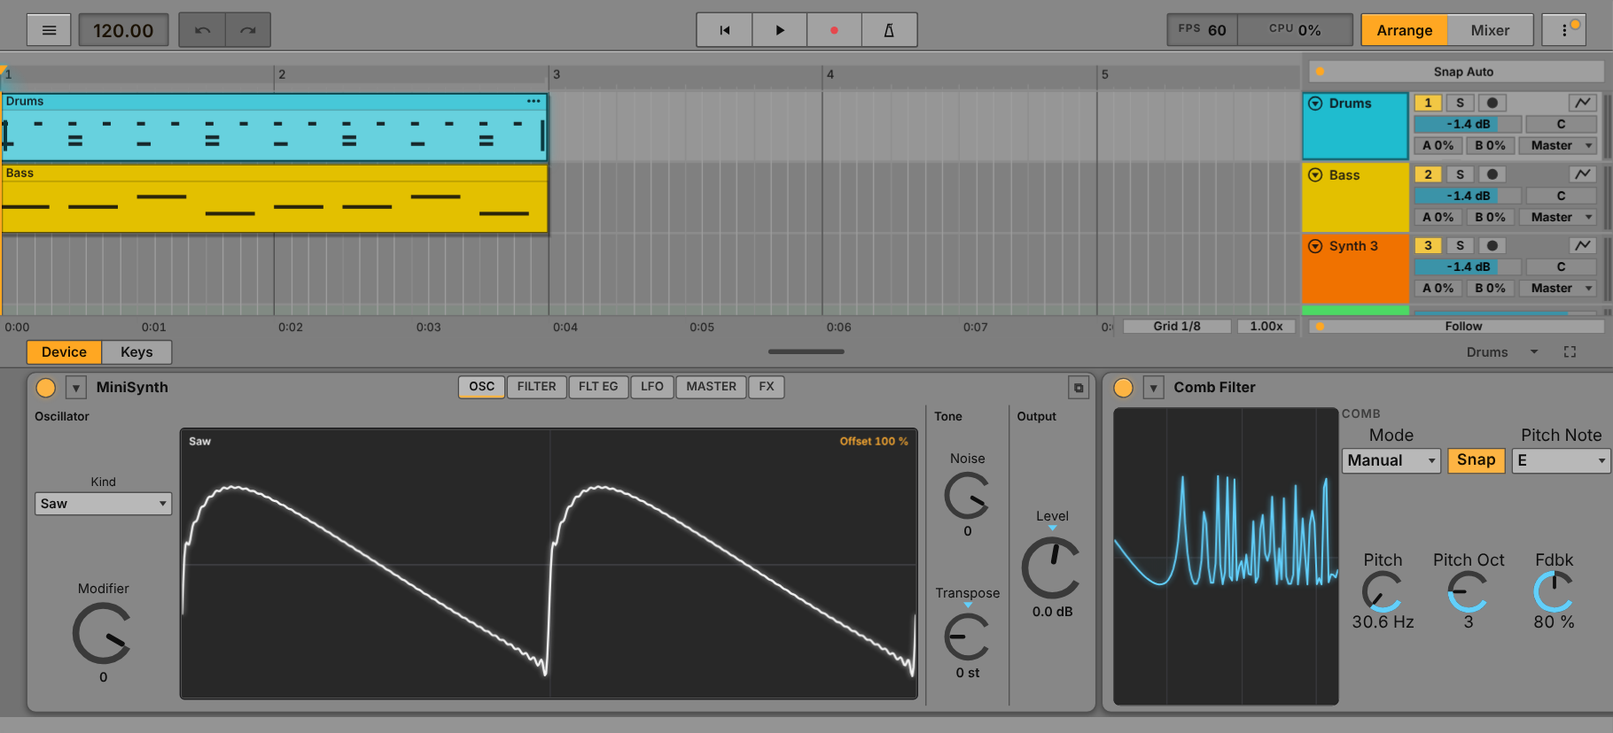
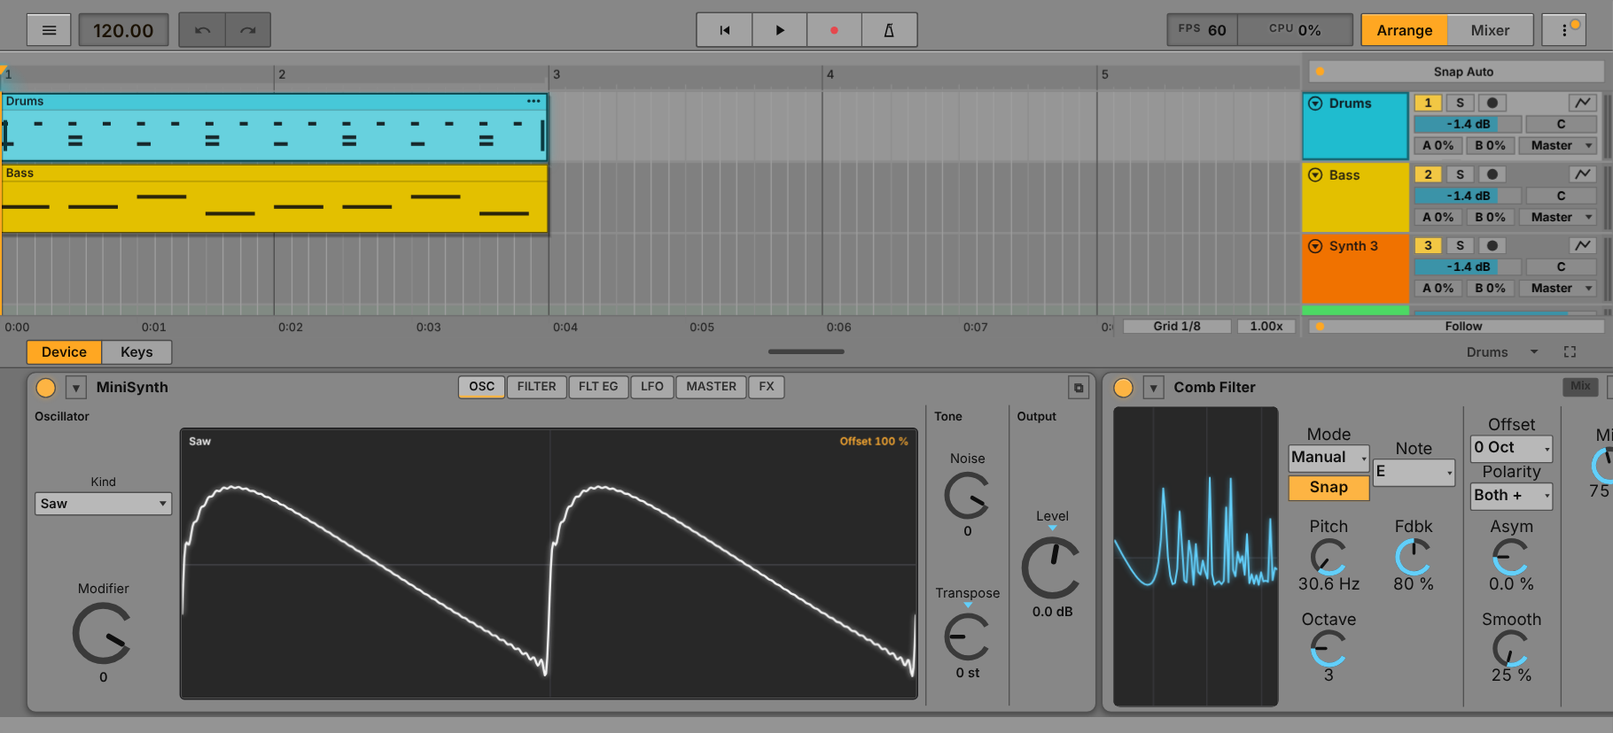
FLM module cards: redesign on Live's device anatomy
- Display fills the card's free width at full height; controls stand in
  columns of equal cells (knob = cell, menu/switch = half cell, short choices
  = stacked button column), rows fitted to the card height (2-4) so nothing
  stretches or overlaps.
- One label style, titles only where names repeat, Live-style short labels
  that stay inside their borders, sync pairs without leftover gaps, piano
  keyboards for note toggles, tokens and theme colours.
- Instruments (Transistor Bass, Slicer, 3x Osc) as wide as their columns.

Claude-Session: https://claude.ai/code/session_016R99TjSh2G5U2VqVgMNHhT

Changed region(s): [[0.6769, 0.5435, 1.0, 0.9662], [0.9538, 0.5133, 1.0, 0.5435]]

diff --git a/js/fxkit.js b/js/fxkit.js
@@ -7,7 +7,7 @@ import { C } from './theme.js';
 import { fmtParam, normOf, valOf, MOD_MAP, DEVICES, INSTRUMENTS, FX_GROUPS, IRACK_DEF } from './defs.js';
 import { buildSynth } from './devviz.js';
 import { menuItem } from './fxlaw.js';
-import { FLM_LAYOUT, flmName, flmShort } from './flmlayout.js';
+import { FLM_LAYOUT, flmName, flmShort, flmSwitch } from './flmlayout.js';
 import { FLM_GRAPH } from './flmviz.js';
 import { OP_ALGOS } from './engine/operator.js';
 import { POLI_TGT, POLI_GRID, POLI_MIDI } from './engine/poli.js';
@@ -1722,41 +1722,69 @@ const flmPanel = (k, only = null, short = null) => {
     notes.length ? h('div', { class: 'lk-row lk-flmnotes' }, ...notes) : null, h('div', { class: 'lk-row lk-flmk' }, ...knobs));
   return disp ? h('div', { class: 'lk-row lk-flm' }, h('div', { class: 'lk-col lk-flmd' }, disp), body) : body;
 };
-// Live-style card of an FLM module (js/flmlayout.js): its display left, then titled sections; in a section the menus / switches on top and
-// the knobs in a grid (two rows from four knobs on), Sync pairs show only the rate control that plays, note toggles as a one-octave keyboard.
+// Live-style card of an FLM module (js/flmlayout.js), built from equal cells on a two-row grid like Live's device columns: a knob fills a
+// cell (label, dial, value); menus and switches are half cells, two stacked in one; short menus (up to 4 short items) are Live's segmented
+// buttons. The display stands on the left at full height; Sync pairs show only the rate control that plays; note toggles form a piano
+// (two rows high). A section title appears only where the same control name repeats in another section (Band 1 / Band 2, Low / Mid / High).
 const BLACK = [1, 3, 6, 8, 10];
 const flmLayout = (k, L) => {
   const ps = k.def.params, when = [];
   const esc = (t) => t.replace(/[.*+?^${}()|[\]\\/]/g, '\\$&');
   const tidy = (j, title = '') => {   // the name without what its section title already says ("LFO Rate" in LFO -> "Rate"), first letter capital
     if (L.names && L.names[j]) return L.names[j];
-    let n = flmName(ps[j].n); if (title) n = n.replace(new RegExp('^' + esc(title) + ' ', 'i'), ''); if (L.strip) n = n.replace(L.strip, ''); n = n.trim() || flmName(ps[j].n);
+    let n = flmName(ps[j].n); if (title) n = n.replace(new RegExp('^' + esc(title) + ' ', 'i'), ''); if (L.strip) n = n.replace(L.strip, ''); n = n.replace(/ ?\((sync|Sync)\)$/, '').trim() || flmName(ps[j].n);
     return n[0].toUpperCase() + n.slice(1);
   };
-  const ctl = (j, title = '') => {
-    const p = ps[j]; let el; const nm = tidy(j, title);
-    if (p.fmt === 'flmlist') { const n = p.items.length; el = k.TL(nm, k.reg(lvSel(() => p.items.map((l, q) => ({ label: l, value: q })), () => (p.br ? menuItem(p.br, k.get(j)) : Math.round(k.get(j) * (n - 1))), (q) => k.set(j, n > 1 ? q / (n - 1) : 0), { w: 84, cls: 'lk-s' }), j)); el.dataset.kind = 'm'; }
-    else if (p.fmt === 'onoff') { el = k.T(j, nm, { w: Math.max(40, Math.min(110, 10 + nm.length * 7)) }); el.dataset.kind = 't'; }
-    else { el = k.K(j, { n: flmShort(nm), p: { lawCtx: () => ({ p: k.d.params }) } }); el.title = nm; el.dataset.kind = 'k'; }
-    if (L.when && L.when[j]) when.push([el, L.when[j]]);
-    return el;
+  const vis = (j) => ps[j] && !ps[j].hidden;
+  const watch = (el, j) => { if (L.when && L.when[j]) when.push([el, L.when[j]]); return el; };
+  const knob = (j, title) => { const nm = tidy(j, title), el = k.K(j, { n: flmShort(nm), p: { lawCtx: () => ({ p: k.d.params }) } }); el.title = nm; return watch(h('div', { class: 'fc fk' }, el), j); };
+  const small = (j, title) => {   // a half cell: a switch, a segmented choice or a labelled menu
+    const p = ps[j], nm = tidy(j, title);
+    if (p.fmt === 'onoff') { const cap = flmSwitch(nm), b = k.T(j, cap, { cls: 'fsw' + (cap.length > 6 ? ' sm' : '') }); b.title = nm; return watch(h('div', { class: 'fh' }, b), j); }
+    const n = p.items.length, cur = () => (p.br ? menuItem(p.br, k.get(j)) : Math.round(k.get(j) * (n - 1))), put = (q) => k.set(j, n > 1 ? q / (n - 1) : 0);
+    const seg = n >= 2 && n <= 4 && p.items.every((x) => String(x).length <= 6);   // Live's stacked choice buttons (Compressor Peak / RMS / Expand)
+    if (seg) { const ctl = k.reg(lvChoice(p.items.map((l) => ({ label: l, title: nm + ': ' + l })), cur, put, { cls: 'fseg n' + n }), j); ctl.update && ctl.update(); ctl.title = nm; return watch(h('div', { class: 'fc fsg' }, ctl), j); }
+    const ctl = k.reg(lvSel(() => p.items.map((l, q) => ({ label: l, value: q })), cur, put, { cls: 'fsel' }), j);
+    if (ctl.update) ctl.update();
+    return watch(h('div', { class: 'fh' }, h('span', { class: 'fl' }, flmShort(nm)), ctl), j);
   };
-  const section = ([title, idx]) => {
-    const els = idx.filter((j) => ps[j] && !ps[j].hidden).map((j) => ctl(j, title)), top = els.filter((e) => e.dataset.kind !== 'k'), kn = els.filter((e) => e.dataset.kind === 'k');
-    const grid = kn.length ? h('div', { class: 'lk-fg', style: `grid-template-rows:repeat(${kn.length >= 4 ? 2 : 1},auto)` }, ...kn) : null;
-    return h('div', { class: 'lk-fs' }, h('div', { class: 'lk-fsh' }, title), top.length ? h('div', { class: 'lk-fst' }, ...top) : null, grid);
+  const cells = (idx, title) => {   // knobs = cells; consecutive half cells pair up
+    const out = []; let half = null;
+    for (const j of idx.filter(vis)) {
+      if (ps[j].fmt === 'onoff' || ps[j].fmt === 'flmlist') { const e = small(j, title); if (e.classList.contains('fc')) { half = null; out.push(e); continue; }   // a segmented choice is a whole cell
+        if (half) { half.append(e); half = null; } else { half = h('div', { class: 'fc fp' }, e); out.push(half); } }
+      else { half = null; out.push(knob(j, title)); }
+    }
+    return out;
   };
-  const keys = L.keys ? h('div', { class: 'lk-fs' }, h('div', { class: 'lk-fsh' }, L.keys[0]), h('div', { class: 'lk-fkeys' }, ...L.keys[1].map((j, q) =>
-    k.T(j, ps[j].n.replace(new RegExp('^' + L.keys[2], 'i'), '').replace(/^(.)b$/, (_, a) => 'CDEFGAB'['CDEFGAB'.indexOf(a) - 1] + '#'), { w: 26, cls: 'lk-key' + (BLACK.includes(q) ? ' blk' : '') }))), L.after ? h('div', { class: 'lk-fst' }, ...L.after.map(ctl)) : null) : null;
+  const piano = (idx, title) => {   // a one-octave keyboard: white keys along the bottom, black keys above the gaps
+    const box = h('div', { class: 'fc fkeys' }), wi = [0, 2, 4, 5, 7, 9, 11];
+    idx.forEach((j, q) => { const blk = BLACK.includes(q), x = blk ? wi.indexOf(q - 1) + 1 : wi.indexOf(q);
+      const b = k.T(j, blk ? '' : ps[j].n.replace(new RegExp('^' + L.keys[2], 'i'), ''), { cls: 'fkey' + (blk ? ' blk' : '') }); b.title = ps[j].n.replace(new RegExp('^' + L.keys[2], 'i'), '');
+      b.style.setProperty('--x', x); box.append(b); });
+    return h('div', { class: 'fsec' }, h('div', { class: 'fgrid' }, box, ...(L.after ? cells(L.after, '') : [])));
+  };
+  // which sections need their title: a control name of theirs also appears in another section
+  const named = L.s.map(([t, idx]) => new Set(idx.filter(vis).map((j) => tidy(j, t))));
+  const needTitle = (i) => named.some((o, q) => q !== i && [...named[i]].some((n) => o.has(n)));
+  const section = ([title, idx], i) => h('div', { class: 'fsec' }, needTitle(i) ? h('div', { class: 'fst' }, title) : null, h('div', { class: 'fgrid' }, ...cells(idx, title)));
   const tap = L.tap ? { onDown: (x, y, e) => {   // flmviz.js keys(): white keys across, black keys on the upper 60 %
     const c = e.currentTarget, w = c._w, hh = c._h, kw = (w - 8) / 7, top = 16, h2 = hh - top - 4, j = Math.floor((x - 4) / kw);
     let note = [0, 2, 4, 5, 7, 9, 11][Math.max(0, Math.min(6, j))];
     if (y < top + h2 * 0.6) for (const [bk, bj] of [[1, 0], [3, 1], [6, 3], [8, 4], [10, 5]]) { const cx = 4 + (bj + 1) * kw; if (Math.abs(x - cx) <= kw * 0.3) note = bk; }
     const pi = L.tap(note); k.set(pi, k.get(pi) > 0.5 ? 0 : 1); return false; } } : null;
-  const gr = FLM_GRAPH[k.def.flm], disp = gr ? h('div', { class: 'lk-fdisp' + (tap ? ' tap' : '') }, k.DF(190, 96, (g, w, hh) => gr(g, w, hh, (j) => k.get(j)), tap)) : null;
-  const sync = () => { for (const [el, [t, on]] of when) { const show = (k.get(t) > 0.5) === on; if (el._shown !== show) { el._shown = show; el.style.display = show ? '' : 'none'; } } };
-  sync(); if (when.length) k.every(120, sync);
-  return h('div', { class: 'lk-row lk-fl' }, disp, ...(keys ? [keys] : []), ...L.s.map(section));
+  const gr = FLM_GRAPH[k.def.flm], disp = gr ? h('div', { class: 'fdisp' + (tap ? ' tap' : '') }, k.DF(140, 96, (g, w, hh) => gr(g, w, hh, (j) => k.get(j)), tap)) : null;
+  const sync = () => {
+    for (const [el, [t, on]] of when) { const show = (k.get(t) > 0.5) === on; if (el._shown !== show) { el._shown = show; el.style.display = show ? '' : 'none'; } }
+    for (const [el] of when) { const cell = el.parentElement; if (cell && cell.classList.contains('fp')) cell.style.display = [...cell.children].every((c) => c.style.display === 'none') ? 'none' : ''; }   // a cell whose halves are both hidden leaves no gap
+  };
+  const root = h('div', { class: 'lk-row flc' + (disp ? ' hasd' : '') }, disp, L.keys ? piano(L.keys[1], L.keys[0]) : null, ...L.s.map(section));
+  // rows of cells: as many as the card's height holds (2..4), the cells keep their size - Live's columns of stacked controls, no stretched gaps
+  const fit = () => { const hh = root.clientHeight, cs = getComputedStyle(root), cell = parseFloat(cs.getPropertyValue('--fc-h')) || 64, gap = 2, tt = root.querySelector('.fst') ? 16 : 0;
+    const rows = Math.max(2, Math.min(4, Math.floor((hh - tt + gap) / (cell + gap)))); if (rows !== root._rows) { root._rows = rows; root.style.setProperty('--rows', rows); } };
+  new ResizeObserver(fit).observe(root);
+  sync(); if (when.length) k.every(120, sync);   // after the sections exist: their controls are in `when`
+  return root;
 };
 const flmCard = (k) => { const L = FLM_LAYOUT[k.def.flm != null && !k.def.native ? k.def.flm : 'i' + k.d.type]; return L ? flmLayout(k, L) : flmPanel(k); };
 for (const t of Object.keys(DEVICES)) if (DEVICES[t].view === 'flmfx') V[t] = flmCard;
@@ -1774,7 +1802,7 @@ const OSC3_PAGES = (() => {
 const osc3Tab = new Map();
 VI[36] = (k) => {
   const key = k.ctx.d && k.ctx.d.id, page = h('div', { class: 'lk-row lk-o3p' });
-  const short = (n) => n.replace(/^Osc 3 = amplitude modulation$/, 'AM').replace(/^Osc [123] /, '').replace(/^Stereo Phase Randomness$/, 'Phase Rand').replace(/^(Pan|Volume|ModX|ModY|Pitch) (LFO|Envelope) /, '').replace(/^Delay /, '').replace(/^Arpeggio /, '').replace(/^Filter /, '').replace(/^Key Tracking /, 'Key ').replace(/^Velocity Tracking /, 'Vel ').replace(/^(Attack|Decay|Release) Tension$/, (_, a) => a[0] + ' Curve').replace(/^Volume Multiplier$/, 'Vol Mult').replace(/^Portamento /, 'Porta ').replace(/^Maximum Polyphony$/, 'Voices').replace(/^Monophonic Mode$/, 'Mono');
+  const short = (n) => n.replace(/^Osc 3 = amplitude modulation$/, 'AM').replace(/^Osc [123] /, '').replace(/^Stereo Phase Randomness$/, 'Ph Rand').replace(/^(Coarse|Fine) Pitch$/, '$1').replace(/^(Pan|Volume|ModX|ModY|Pitch) (LFO|Envelope) /, '').replace(/^Delay /, '').replace(/^Arpeggio /, '').replace(/^Filter /, '').replace(/^Key Tracking /, 'Key ').replace(/^Velocity Tracking /, 'Vel ').replace(/^(Attack|Decay|Release) Tension$/, (_, a) => a[0] + ' Curve').replace(/^Volume Multiplier$/, 'Vol Mult').replace(/^Portamento /, 'Porta ').replace(/^Maximum Polyphony$/, 'Voices').replace(/^Monophonic Mode$/, 'Mono');
   const names = {}; for (const [, groups] of OSC3_PAGES) for (const [, idx] of groups) for (const j of idx) names[j] = short(k.def.params[j].n);
   const show = (j) => { osc3Tab.set(key, j); page.replaceChildren(flmLayout(k, { s: OSC3_PAGES[j][1], names })); };
   const j0 = osc3Tab.get(key) || 0;

diff --git a/css/ableton.css b/css/ableton.css
@@ -1590,21 +1590,46 @@ html.reduce-motion .lk-tabpg, html.reduce-motion .flm-pg > *, html.reduce-motion
 @media (prefers-reduced-motion: reduce) { .lk-tabpg, .flm-pg > *, .lk-page > * { animation: none; } }
 /* switches and choice buttons: the lit state fades instead of snapping */
 .lk .lv-btn, .flm-card .lv-btn { transition: background-color .16s ease, color .16s ease, border-color .16s ease, transform .14s cubic-bezier(.3, 1.6, .5, 1); }
-/* FLM module cards (fxkit.js flmLayout, js/flmlayout.js): display left, titled sections, knob grid of two rows - Live's device layout */
-.lk-fl { align-items: stretch; gap: 0; flex-wrap: nowrap; }
-.lk-fdisp { display: flex; flex: 0 0 auto; width: 190px; padding-right: 8px; margin-right: 2px; }
-.lk-fdisp > .lk-dfill { flex: 1 1 auto; }
-.lk-fs { display: flex; flex-direction: column; align-items: flex-start; gap: 3px; align-self: stretch; padding: 0 8px; border-left: 1px solid var(--sep, rgba(0,0,0,.2)); min-width: 0; }
-.lk-fdisp + .lk-fs, .lk-fl > .lk-fs:first-child { border-left: 0; padding-left: 0; }
-.lk-fsh { font-size: 10px; line-height: 12px; font-weight: 600; letter-spacing: .06em; text-transform: uppercase; opacity: .62; white-space: nowrap; }
-.lk-fst { display: flex; flex-wrap: wrap; gap: 3px 5px; align-items: flex-end; max-width: 260px; }
-.lk-fg { display: grid; grid-auto-flow: column; gap: 2px 2px; align-items: center; justify-items: center; flex: 1 1 auto; align-content: space-evenly; }
-.lk-fkeys { display: flex; gap: 1px; padding: 2px 0; }
-.lk .lk-fkeys .lk-key { width: 27px; min-width: 27px; height: 40px; padding: 0 0 3px; font-size: 10px; display: inline-flex; align-items: flex-end; justify-content: center; }
-.lk .lk-fkeys .lk-key.blk { height: 30px; align-self: flex-start; background: #3a3a3e; color: #ddd; }
-.lk .lk-fkeys .lk-key.blk.on { background: var(--accent, #f5a623); color: #111; }
-.lk .lk-fg > .knob.lk-k { width: 70px; min-width: 70px; }
-.lk .lk-fg > .knob.lk-k svg { width: 40px; height: 40px; }
-.lk .lk-fg > .knob.lk-k .k-n { max-width: 70px; overflow: hidden; text-overflow: ellipsis; white-space: nowrap; }
-.lk .lk-fg > .knob.lk-k .k-v { white-space: nowrap; }
-.lk-fst .lk-tl .lk-lb { font-size: 11px; }
+/* FLM module cards (fxkit.js flmLayout, js/flmlayout.js) - Live's device anatomy: the dark display takes the card's free width at full height,
+   the controls stand in columns of equal cells (rows = what the height holds, fxkit fit()); knob = cell, menu / switch = half cell (two per cell),
+   short choices = a stacked button column in one cell; one label style everywhere; hairlines between groups; tokens + theme colours only. */
+.flc { --fc-w: 70px; --fc-h: 76px; --key-w: #e2e2e6; --key-b: #1e1e21; --rows: 2; align-items: stretch; gap: 0; flex-wrap: nowrap; padding: var(--sp-1) 0; min-height: 0; }
+.flc .fdisp { display: flex; flex: 1 1 auto; min-width: 140px; max-width: 360px; margin-right: var(--sp-4); }
+.flc .fdisp > .lk-dfill { flex: 1 1 auto; min-height: 0; min-width: 0 !important; }
+.flc .fdisp.tap .lk-dfc { cursor: pointer; }
+.flc .fsec { display: flex; flex-direction: column; justify-content: center; align-self: stretch; flex: 0 0 auto; padding: 0 var(--sp-3); border-left: 1px solid var(--lv-edge); }
+.flc .fdisp + .fsec, .flc > .fsec:first-child { border-left: 0; padding-left: 0; }
+.flc > .fsec:last-child { padding-right: 0; }
+.flc .fst { height: 12px; margin-bottom: var(--sp-2); font: var(--fw-sb) var(--fs-1)/12px var(--font); color: var(--lv-dim); text-align: center; white-space: nowrap; }
+.flc .fgrid { display: grid; grid-template-rows: repeat(var(--rows), var(--fc-h)); grid-auto-flow: column; grid-auto-columns: var(--fc-w); gap: 2px; align-content: center; align-items: center; justify-items: stretch; }
+.flc .fc { width: var(--fc-w); height: var(--fc-h); display: flex; flex-direction: column; align-items: center; justify-content: center; }
+.flc .fk > .knob.lk-k { width: var(--fc-w); min-width: var(--fc-w); }
+.flc .fk > .knob.lk-k svg { width: 36px; height: 36px; }
+.flc .fk > .knob.lk-k .k-n { max-width: var(--fc-w); overflow: hidden; text-overflow: ellipsis; white-space: nowrap; }
+.flc .fk > .knob.lk-k .k-v { white-space: nowrap; }
+.flc .fp { gap: 2px; justify-content: center; }
+.flc .fh { width: 100%; display: flex; flex-direction: column; align-items: stretch; gap: 1px; }
+.flc .fh .fl { font: var(--fw-r) var(--fs-2)/13px var(--font); color: var(--lv-ink); text-align: center; white-space: nowrap; overflow: hidden; text-overflow: ellipsis; }
+.flc .fh .lv-btn.fsw, .flc .fh .fsel { width: 100%; min-width: 0 !important; max-width: none; height: var(--ctl-xs); padding: 0 var(--sp-1); font-size: var(--fs-2); overflow: hidden; text-overflow: ellipsis; }
+.flc .fsg .fseg { display: flex; flex-direction: column; width: 100%; }
+.flc .fsg .fseg .lv-btn { width: 100%; min-width: 0 !important; height: calc((var(--fc-h) - 4px) / 3) !important; padding: 0; font-size: var(--fs-2); line-height: 1; }
+.flc .fsg .fseg.n2 .lv-btn { height: calc((var(--fc-h) - 4px) / 2.4) !important; }
+.flc .fsg .fseg.n4 { display: grid; grid-template-columns: 1fr 1fr; } .flc .fsg .fseg.n4 .lv-btn { font-size: var(--fs-1); } .flc .fsg .fseg.n4 .lv-btn { height: calc((var(--fc-h) - 4px) / 2) !important; }
+.flc .fsg .fseg .lv-btn + .lv-btn { margin-top: -1px; } .flc .fsg .fseg.n4 .lv-btn:nth-child(2n) { margin-left: -1px; } .flc .fsg .fseg.n4 .lv-btn:nth-child(2) { margin-top: 0; }
+.flc .fkeys { width: calc(7 * 22px + 1px) !important; grid-row: span var(--rows); position: relative; height: calc(var(--rows) * var(--fc-h) + (var(--rows) - 1) * 2px); }
+.flc .fgrid:has(> .fkeys) { grid-auto-columns: auto; }
+.flc .fkeys .lv-btn.fkey { position: absolute; left: calc(var(--x) * 22px); bottom: 0; width: 23px; min-width: 0; height: 100% !important; margin: 0; padding: 0 0 var(--sp-2); display: flex; align-items: flex-end; justify-content: center;
+  background: var(--key-w) !important; color: var(--key-b) !important; border: 1px solid var(--lv-edge); border-radius: 0 0 var(--r-1) var(--r-1); font-size: var(--fs-1); }
+.flc .fkeys .lv-btn.fkey.blk { left: calc(var(--x) * 22px - 8px); top: 0; bottom: auto; width: 16px; height: 58% !important; z-index: 1; background: var(--key-b) !important; padding: 0; }
+.flc .fkeys .lv-btn.fkey.on { background: var(--lv-or) !important; color: var(--accent-ink) !important; }
+.flc .fkeys .lv-btn.fkey.blk.on { background: var(--lv-or) !important; }
+/* FLM cards built by flmLayout (Transistor Bass, Slicer, 3x Osc and the effect modules): as wide as their columns, the grid fills the height */
+#dbody .dev-scroll > .card.flm-card.flm-t34, #dbody .dev-scroll > .card.flm-card.flm-t35, #dbody .dev-scroll > .card.flm-card.flm-t36 { width: max-content; min-width: 0; }
+.fw-fit > .card.flm-card.flm-t34, .fw-fit > .card.flm-card.flm-t35, .fw-fit > .card.flm-card.flm-t36 { width: max-content; }
+.card > .flc, .card > .lk > .flc, .card .lk-o3p > .flc { flex: 1 1 auto; margin: 0; }
+#dbody .dev-scroll > .card:has(> .flc.hasd) { min-width: 420px; }
+.card > .lk.lk-col:has(> .lk-o3p) { flex: 1 1 auto; } .card .lk-o3p { flex: 1 1 auto; align-items: stretch; }
+.card > .lk.lk-col:has(> .flc) { flex: 1 1 auto; } .card > .lk.lk-col > .flc { flex: 1 1 auto; }
+.flc .fsel { display: flex; align-items: center; } .flc .fsel .v { flex: 1 1 auto; min-width: 0; overflow: hidden; text-overflow: ellipsis; text-align: left; } .flc .fsel .tri { flex: 0 0 auto; }
+.flc .fh .lv-btn.fsw { display: block; white-space: nowrap; overflow: hidden; text-overflow: ellipsis; text-align: center; line-height: calc(var(--ctl-xs) - 2px); }
+.flc .fh .lv-btn.fsw.sm { font-size: var(--fs-1); }

diff --git a/js/flmlayout.js b/js/flmlayout.js
@@ -8,7 +8,7 @@
 //   tap: (note 0..11) => param - the display is a keyboard (flmviz keys) and a tap toggles that note; tapKeys: those params (no buttons)
 //   strip: a regexp of name parts the section titles already say ("Low ", " (Arp 1)")
 const R = (a, b) => Array.from({ length: b - a + 1 }, (_, q) => a + q);
-const band = (n) => ['Band ' + n, [4 * n, 4 * n - 3, 4 * n - 2, 4 * n - 1, 16 + n]];
+const band = (n) => ['Band ' + n, [4 * n, 16 + n, 4 * n - 3, 4 * n - 2, 4 * n - 1]];   // Kind + Channel stacked in one cell, then Gain, Freq, Width
 const arp = (n, o) => ['Arp ' + n, [o + 19, o + 10, o + 11, o + 12, o + 13, o + 14, o + 17, o + 18, o + 9, o + 15, 30 + n]];
 const mb = (name, o, w) => [name, [o + 6, o, o + 1, o + 2, o + 3, o + 4, o + 5, w]];
 
@@ -35,24 +35,24 @@ export const FLM_LAYOUT = {
   29: { s: [['Shape', [7, 4, 5]], ['Duck', [1, 2, 3, 6]]] },
   30: { s: [['Bands', R(1, 8)], ['Tuning', [9, 10]]] },
   32: { s: [['Reverb', [1, 7, 8, 9, 6, 5]], ['Tone', [2, 10, 11]], ['Modulation', [12, 13]], ['Output', [3, 4, 14, 15]]] },
-  34: { s: [['L/R', [4, 1, 2]], ['M/S', [6, 5, 3]], ['Mode', [7]]] },
+  34: { names: { 7: 'Stereo' }, s: [['L/R', [4, 1, 2]], ['M/S', [6, 5, 3]], ['Mode', [7]]] },
   35: { s: [['Space', [3, 4, 5, 6, 15]], ['Pre-Delay', [12, 11, 10]], ['Tone', [1, 2, 14, 17]], ['Modulation', [13, 16]], ['Output', [7, 8, 9, 18]]] },
-  36: { s: [['Bands', [4, 30, 2, 3, 1, 5]], mb('Low', 6, 27), mb('Mid', 13, 28), mb('High', 20, 29)], names: { 2: 'Low/Mid', 3: 'Mid/High', 1: 'Output', 30: 'Width', 12: 'Mode', 19: 'Mode', 26: 'Mode' } },
-  40: { s: [['Comb', [1, 7, 2, 10, 11, 3]], ['Shape', [5, 8, 9, 6]], ['Output', [4]]] },
-  41: { names: { 18: 'Rate', 7: 'Spread' }, s: [['Shape', [1, 2, 3, 4, 5]], ['Tone', R(9, 14)], ['LFO', [15, 16, 17, 18, 19, 20]], ['Output', [6, 7, 8]]], when: { 17: [16, true], 18: [16, false] } },
-  42: { s: [['Transport', [5, 7]], ['Stop', [1, 3]], ['Start', [2, 4]], ['Warp', [6]]], when: { 1: [7, false], 3: [7, true], 2: [7, false], 4: [7, true] } },
+  36: { s: [['Bands', [4, 30, 2, 3, 1, 5]], mb('Low', 6, 27), mb('Mid', 13, 28), mb('High', 20, 29)], names: { 2: 'Lo/Mid', 3: 'Mid/Hi', 1: 'Output', 30: 'Width', 12: 'Mode', 19: 'Mode', 26: 'Mode' } },
+  40: { names: { 10: 'Octave', 11: 'Note' }, s: [['Comb', [1, 7, 2, 10, 11, 3]], ['Shape', [5, 8, 9, 6]], ['Output', [4]]] },
+  41: { names: { 18: 'Rate', 7: 'Spread', 6: 'Output' }, s: [['Shape', [1, 2, 3, 4, 5]], ['Tone', R(9, 14)], ['LFO', [15, 16, 17, 18, 19, 20]], ['Output', [6, 7, 8]]], when: { 17: [16, true], 18: [16, false] } },
+  42: { names: { 1: 'Stop', 3: 'Stop', 2: 'Start', 4: 'Start' }, s: [['Transport', [5, 7]], ['Time', [1, 3, 2, 4]], ['Warp', [6]]], when: { 1: [7, false], 3: [7, true], 2: [7, false], 4: [7, true] } },
   43: { s: [['Sync', [7]], ['Wow', [1, 2, 3]], ['Flutter', [4, 5, 6]], ['Random', [8, 9, 10]]],
     when: { 1: [7, false], 2: [7, true], 4: [7, false], 5: [7, true], 8: [7, false], 9: [7, true] }, strip: /^(Wow|Flutter|Random) / },
   44: { names: { 2: 'Low Byp', 3: 'Mono Lo' }, s: [['Spread', [1, 4, 2, 3]]] },
-  45: { s: [['Pitch', [21, 13, 19, 20, 23, 24]], ['Formant', [16, 17, 18]], ['Output', [22, 25, 26]]], tap: (k) => 1 + k, tapKeys: R(1, 12) },
+  45: { names: { 18: 'Ref Ch' }, s: [['Pitch', [21, 13, 19, 20, 23, 24]], ['Formant', [16, 17, 18]], ['Output', [22, 25, 26]]], tap: (k) => 1 + k, tapKeys: R(1, 12) },
   46: { names: { 1: 'Rate', 2: 'Rate', 5: 'Phase', 6: 'Stereo', 3: 'Max', 4: 'Min' }, s: [['Rate', [7, 1, 2, 5, 6]], ['Depth', [3, 4]], ['Shape', [8, 9, 10, 11]]], when: { 1: [7, false], 2: [7, true] } },
   47: { names: { 1: 'Repeats', 2: 'Delay', 3: 'Delay', 5: 'Pitch', 6: 'Velocity', 12: 'Pan', 9: 'Time', 10: 'Length', 11: 'Delay', 13: 'Pan' }, s: [['Echo', [4, 2, 3, 1, 15]], ['Offsets', [5, 6, 12, 14]], ['Drift', [9, 10, 11, 13]], ['Start', [7, 8]]], when: { 2: [4, false], 3: [4, true] } },
   48: { s: [['Transpose', [1, 2]]] },
   49: { s: [['Random', R(1, 6)]] },
   50: { s: [['Scale', [1, 2, 3]]], keys: ['Notes', R(4, 15), 'Note '] },
-  51: { s: [['Rate', [3, 1, 2, 4, 5, 6]], ['Velocity', [7, 8]], arp(1, 0), arp(2, 11)], when: { 1: [3, true], 2: [3, false] }, strip: / \(Arp \d\)$/ },
+  51: { names: { 7: 'Vel 1', 8: 'Vel 2', 12: 'Oct Shift', 23: 'Oct Shift', 13: 'Start', 24: 'Start' }, s: [['Rate', [3, 1, 2, 4, 5, 6]], ['Velocity', [7, 8]], arp(1, 0), arp(2, 11)], when: { 1: [3, true], 2: [3, false] }, strip: / \(Arp \d\)$/ },
   // instruments (defs.js INSTRUMENTS[34] / [35])
-  i34: { names: { 11: 'PW', 12: 'LFO Rate', 13: 'LFO > PW' }, s: [['Oscillator', [1, 11, 12, 13]], ['Filter', [2, 3, 4, 5, 6]], ['Distortion', [7, 8, 9, 10]]] },
+  i34: { names: { 1: 'Wave', 11: 'PW', 12: 'LFO Rate', 13: 'LFO>PW' }, s: [['Oscillator', [1, 11, 12, 13]], ['Filter', [2, 3, 4, 5, 6]], ['Distortion', [7, 8, 9, 10]]] },
   i35: { s: [['Slices', [7, 8]], ['Voice', [1, 3, 4, 5, 6]]] },
 };
 
@@ -67,4 +67,8 @@ export function flmName(n) {
 const SHORT = [[/\bFrequency\b/, 'Freq'], [/\bBandwidth\b/, 'Width'], [/\bResonance\b/, 'Reso'], [/\bThreshold\b/, 'Thresh'], [/\bOutput\b/, 'Out'], [/\bInput\b/i, 'In'], [/\bAmount\b/, 'Amt'],
   [/\bRelease\b/, 'Rel'], [/\bAttack\b/, 'Att'], [/\bFeedback\b/, 'Fdbk'], [/\bDiffusion\b/, 'Diffuse'], [/\bSeparation\b/, 'Sep'], [/\bModulation\b/, 'Mod'], [/ Time\b/, ''], [/\bLevel\b/, 'Lvl'],
   [/^Early Refl\.$/, 'Early'], [/^Room Size$/, 'Size'], [/^Bass Mult\.$/, 'Bass'], [/^High Damp$/, 'Damp'], [/\bSpeed\b/, 'Spd'], [/\bSemitone\b/, 'Semi'], [/\bRepetitions\b/, 'Repeats'], [/ Ratio$/, ''], [/^Humanization$/, 'Human'], [/\bSensitivity\b/, 'Sens'], [/\bSmoothing\b/, 'Smooth'], [/\bStability\b/, 'Stable'], [/\bAsymmetry\b/, 'Asym']];
+const SWITCH = [[/^Tempo Sync$/, 'Sync'], [/^Global Phase$/, 'Global'], [/^Process Sibilants$/, 'Sibil.'], [/^Bypass snapping$/i, 'NoSnap'], [/^Formant Mode$/, 'Formant'],
+  [/^Toggle Play$/, 'Play'], [/^Free Run$/, 'Free'], [/^Auto[- ]?gain$/i, 'Auto'], [/^Side Input$/i, 'Side In'], [/^Ping-Pong$/i, 'P-Pong'], [/^Snapping$/, 'Snap'], [/^Sibilants$|^Process Sibilants$/, 'Sibilant'], [/^Byp Snap$/, 'NoSnap']];
+// a switch's caption: at most ~8 characters fit its button (the text never leaves the border)
+export function flmSwitch(n) { for (const [re, w] of SWITCH) if (re.test(n)) return w; return flmShort(n); }
 export function flmShort(n) { if (n.length <= 7) return n; for (const [re, w] of SHORT) { n = n.replace(re, w).trim(); if (n.length <= 7) break; } return n; }

diff --git a/sw.js b/sw.js
@@ -1,5 +1,5 @@
 // Offline cache. The cache name contains a hash of every file, so a new deploy replaces the old cache automatically.
-const CACHE = 'mobiledaw-83b5eab9c642';
+const CACHE = 'mobiledaw-20560e01d03b';
 const ASSETS = ["./", "./css/app.css", "./css/ableton.css", "./css/float.css", "./css/live.css", "./icons/icon-192.png", "./icons/icon-512.png", "./icons/icon-maskable-512.png", "./index.html", "./js/about.js", "./js/aboutdata.js", "./js/audioedit.js", "./js/autocurve.js", "./js/automate.js", "./js/autosave.js", "./js/browser.js", "./js/chords.js", "./js/colorpick.js", "./js/defs.js", "./js/demos.js", "./js/devices.js", "./js/devviz.js", "./js/drumpad.js", "./js/edgeguard.js", "./js/editor.js", "./js/engine.js", "./js/engine/analog.js", "./js/engine/audioops.js", "./js/engine/cmdtext.js", "./js/engine/core.js", "./js/engine/dsp.js", "./js/engine/drift.js", "./js/engine/ds.js", "./js/engine/fx.js", "./js/engine/fx2.js", "./js/engine/fx3.js", "./js/engine/fx4.js", "./js/engine/fx5.js", "./js/engine/fx6.js", "./js/engine/fx7.js", "./js/engine/fx8.js", "./js/engine/granulator.js", "./js/engine/impulse.js", "./js/engine/instruments.js", "./js/engine/live.js", "./js/engine/meld.js", "./js/engine/meter.js", "./js/engine/mp3.js", "./js/engine/mp3tables.js", "./js/engine/nativesink.js", "./js/engine/operator.js", "./js/engine/phys.js", "./js/engine/poli.js", "./js/engine/sabio.js", "./js/engine/sf2.js", "./js/engine/simpler.js", "./js/engine/flmsyn.js", "./js/engine/hdgms.js", "./js/engine/hdmfx.js", "./js/engine/hdmini.js", "./js/engine/hdsaw.js", "./js/engine/smf.js", "./js/engine/stretchworker.js", "./js/engine/tmap.js", "./js/engine/wav.js", "./js/engine/waveops.js", "./js/engine/mdaw.wasm", "./js/engine/wasmengine.js", "./js/engine/web.js", "./js/engine/worklet-wasm.js", "./js/engine/worklet.js", "./js/floatwin.js", "./js/fps.js", "./js/fxviz.js", "./js/fxkit.js", "./js/flmpanels.js", "./js/flmfx.js", "./js/flm3osc.js", "./js/flmlayout.js", "./js/fxlaw.js", "./js/flmviz.js", "./js/gesture.js", "./js/history.js", "./js/import/als.js", "./js/import/build.js", "./js/import/flm.js", "./js/import/flp.js", "./js/import/fxmap.js", "./js/import/gm.js", "./js/import/index.js", "./js/import/ui.js", "./js/keymap.js", "./js/keys.js", "./js/layout.js", "./js/liveinst.js", "./js/liveui.js", "./js/log.js", "./js/main.js", "./js/midi.js", "./js/midiio.js", "./js/minimeters.js", "./js/mmdraw.js", "./js/native.js", "./js/perf.js", "./js/mixer.js", "./js/prefs.js", "./js/presetlib.js", "./js/presets.js", "./js/project.js", "./js/projects.js", "./js/pwa.js", "./js/quicksave.js", "./js/reorder.js", "./js/safdir.js", "./js/settingsui.js", "./js/storage.js", "./js/tempo.js", "./js/theme.js", "./js/timeline.js", "./js/topbar.js", "./js/touchhit.js", "./js/ui.js", "./js/uiscale.js", "./js/waveform.js", "./js/zip.js", "./manifest.json"];
 self.addEventListener('install', (e) => { e.waitUntil(caches.open(CACHE).then((c) => c.addAll(ASSETS)).then(() => self.skipWaiting())); });
 self.addEventListener('activate', (e) => {

diff --git a/docs/HANDOFF.md b/docs/HANDOFF.md
@@ -730,5 +730,8 @@ Permintaan pemilik: SEMUA efek dan instrumen diganti dengan set stok Ableton Liv
 - Loop proyek (HEAD @272/@280) -> loop region; kanal "zipped" (CHHD @1024) -> track dilipat; urutan kanal dibaca f64 @1028 (dulu setengah atas sebagai f32). Rentang kunci instrumen (ADD1): not di luar rentang tidak diimpor (synth), zona DirectWave lo/hi, Slicer First Note = kunci bawah.
 - 3x Osc (FLM 39 -> instrumen 36, C++ saja: `native/engine/hd3osc.*`, port three_osc/*: 3 osilator + tabel mip HQ, 8 filter, envelope / LFO per target, tracking, Mono / Porta / Gate, Echo / Fat Mode, Arpeggio 88 chord): identik bit dengan Rust Honeydew (35 kasus, harness di luar repo), golden `inst-flm3osc` (WASM = desktop). 149 param FLM (`js/flm3osc.js`, dibangkitkan dari instruments.rs) + param 149 = D (subdivisi TDIV, impor dari file). Teks nilai: 46.917 teks identik dengan Rust, fixture `tools/fixtures/flm3osc-text.json`. Panel: 8 tab seperti halaman FLM (Osc per osilator, LFO / Envelope terpisah). Enable off membekukan voice (seperti FLM). Tabel mip dibangun sekali saat HQ Mode pertama dipakai (sekitar 6 MB per bentuk).
 - Catatan 3x Osc: bentuk Custom (WAV dari CSTM PATH) belum dibaca: diam, seperti FLM sebelum file dimuat. Proyek lama yang mengimpor 3x Osc sebagai placeholder tidak menyimpan nilai knobnya: impor ulang file .flm.
-- Card UI modul FLM (37 efek + Transistor Bass / Slicer / 3x Osc): `fxkit.js flmLayout` + data `js/flmlayout.js`, gaya Ableton Live: grafik modul di kiri, seksi bertajuk (LFO / Envelope / Tone / Output ...), menu & tombol di atas, knob di grid dua baris dengan sel lebar tetap (70 px), label Title Case tanpa awalan yang sudah disebut judul seksi dan disingkat seperti Live (Freq, Reso, Fdbk). Sync seperti Live: hanya kontrol rate yang aktif yang tampil. Pitcher / Pitcher 2: keyboard di grafik bisa diketuk untuk menyalakan / mematikan not; Scale: keyboard satu oktaf. Lembar screenshot: `docs/redesign/flmfx/cards-*.png`. Tata letak lama (`flmPanel`) tetap jadi cadangan untuk modul tanpa entri.
+- Card UI modul FLM (37 efek + Transistor Bass / Slicer / 3x Osc), desain ulang mengikuti aturan pemilik (Live 12 sangat mirip, padat tapi tidak bertumpuk, simetris, ukuran seragam, teks tidak keluar border, tanpa ruang kosong, acuan HP Oppo Find X8): `fxkit.js flmLayout` + data `js/flmlayout.js`, CSS blok "FLM module cards" di `css/ableton.css`.
+  Anatomi Live: display gelap mengisi sisa lebar card setinggi penuh; kontrol dalam kolom sel berukuran sama (`--fc-w` 70, `--fc-h` 76: knob = 1 sel, menu / switch = setengah sel, dua per sel; pilihan pendek <= 4 item = tumpukan tombol satu sel seperti Peak / RMS / Expand); jumlah baris dihitung dari tinggi card (2-4, `fit()` + ResizeObserver), blok dipusatkan - tidak ada celah melar.
+  Satu gaya label; judul grup hanya bila nama kontrol berulang antar grup (Band 1/2, Low / Mid / High, Arp 1/2); label disingkat seperti Live (`flmShort`, `flmSwitch`) sehingga muat di sel; Sync seperti Live (hanya kontrol rate yang aktif, sel kosong ikut hilang); not = keyboard piano; Pitcher / Pitcher 2: keyboard display bisa diketuk.
+  Card efek dengan display minimal 420 px; card instrumen selebar isinya. Lembar screenshot: `docs/redesign/flmfx/cards-*.png`.
 - `fxlaw.js menuItem` kini membandingkan dengan breakpoint f32 (`f(b)`): breakpoint dicetak sebagai f32 terpendek (0.7 = 0.699999988). Modul tambahan Honeydew (bukan FLM) sengaja tidak diport (keputusan pemilik).
